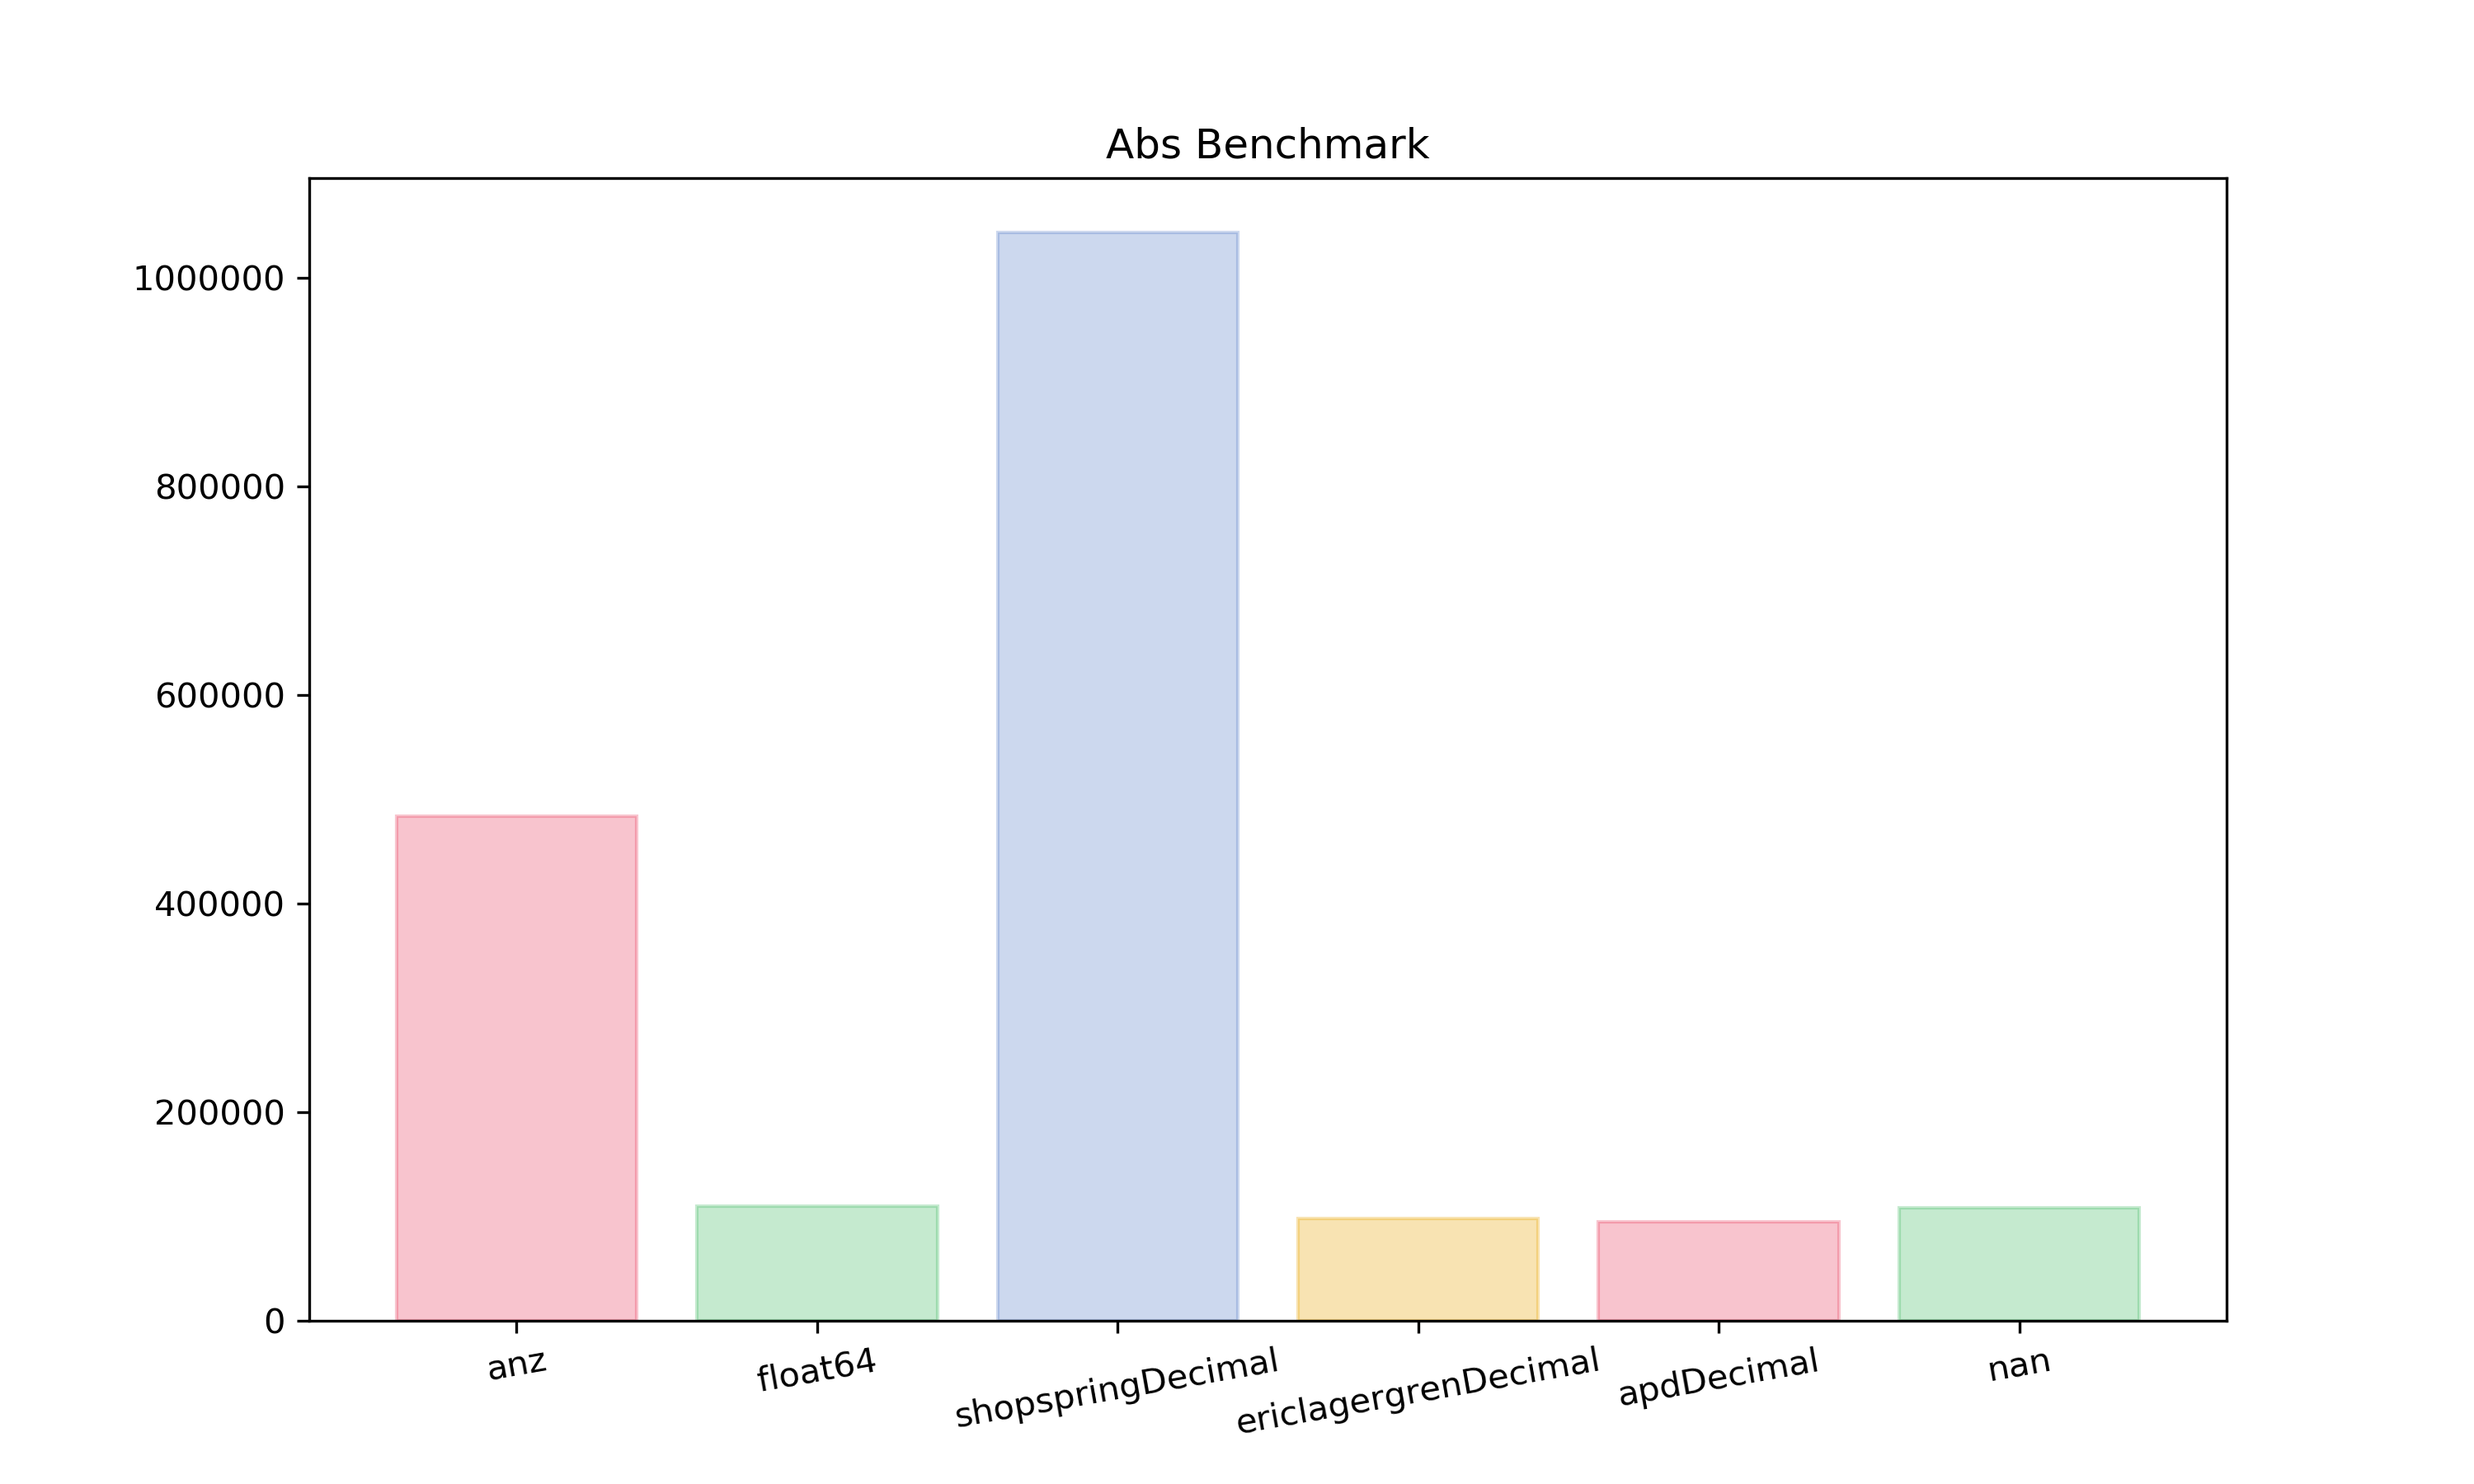
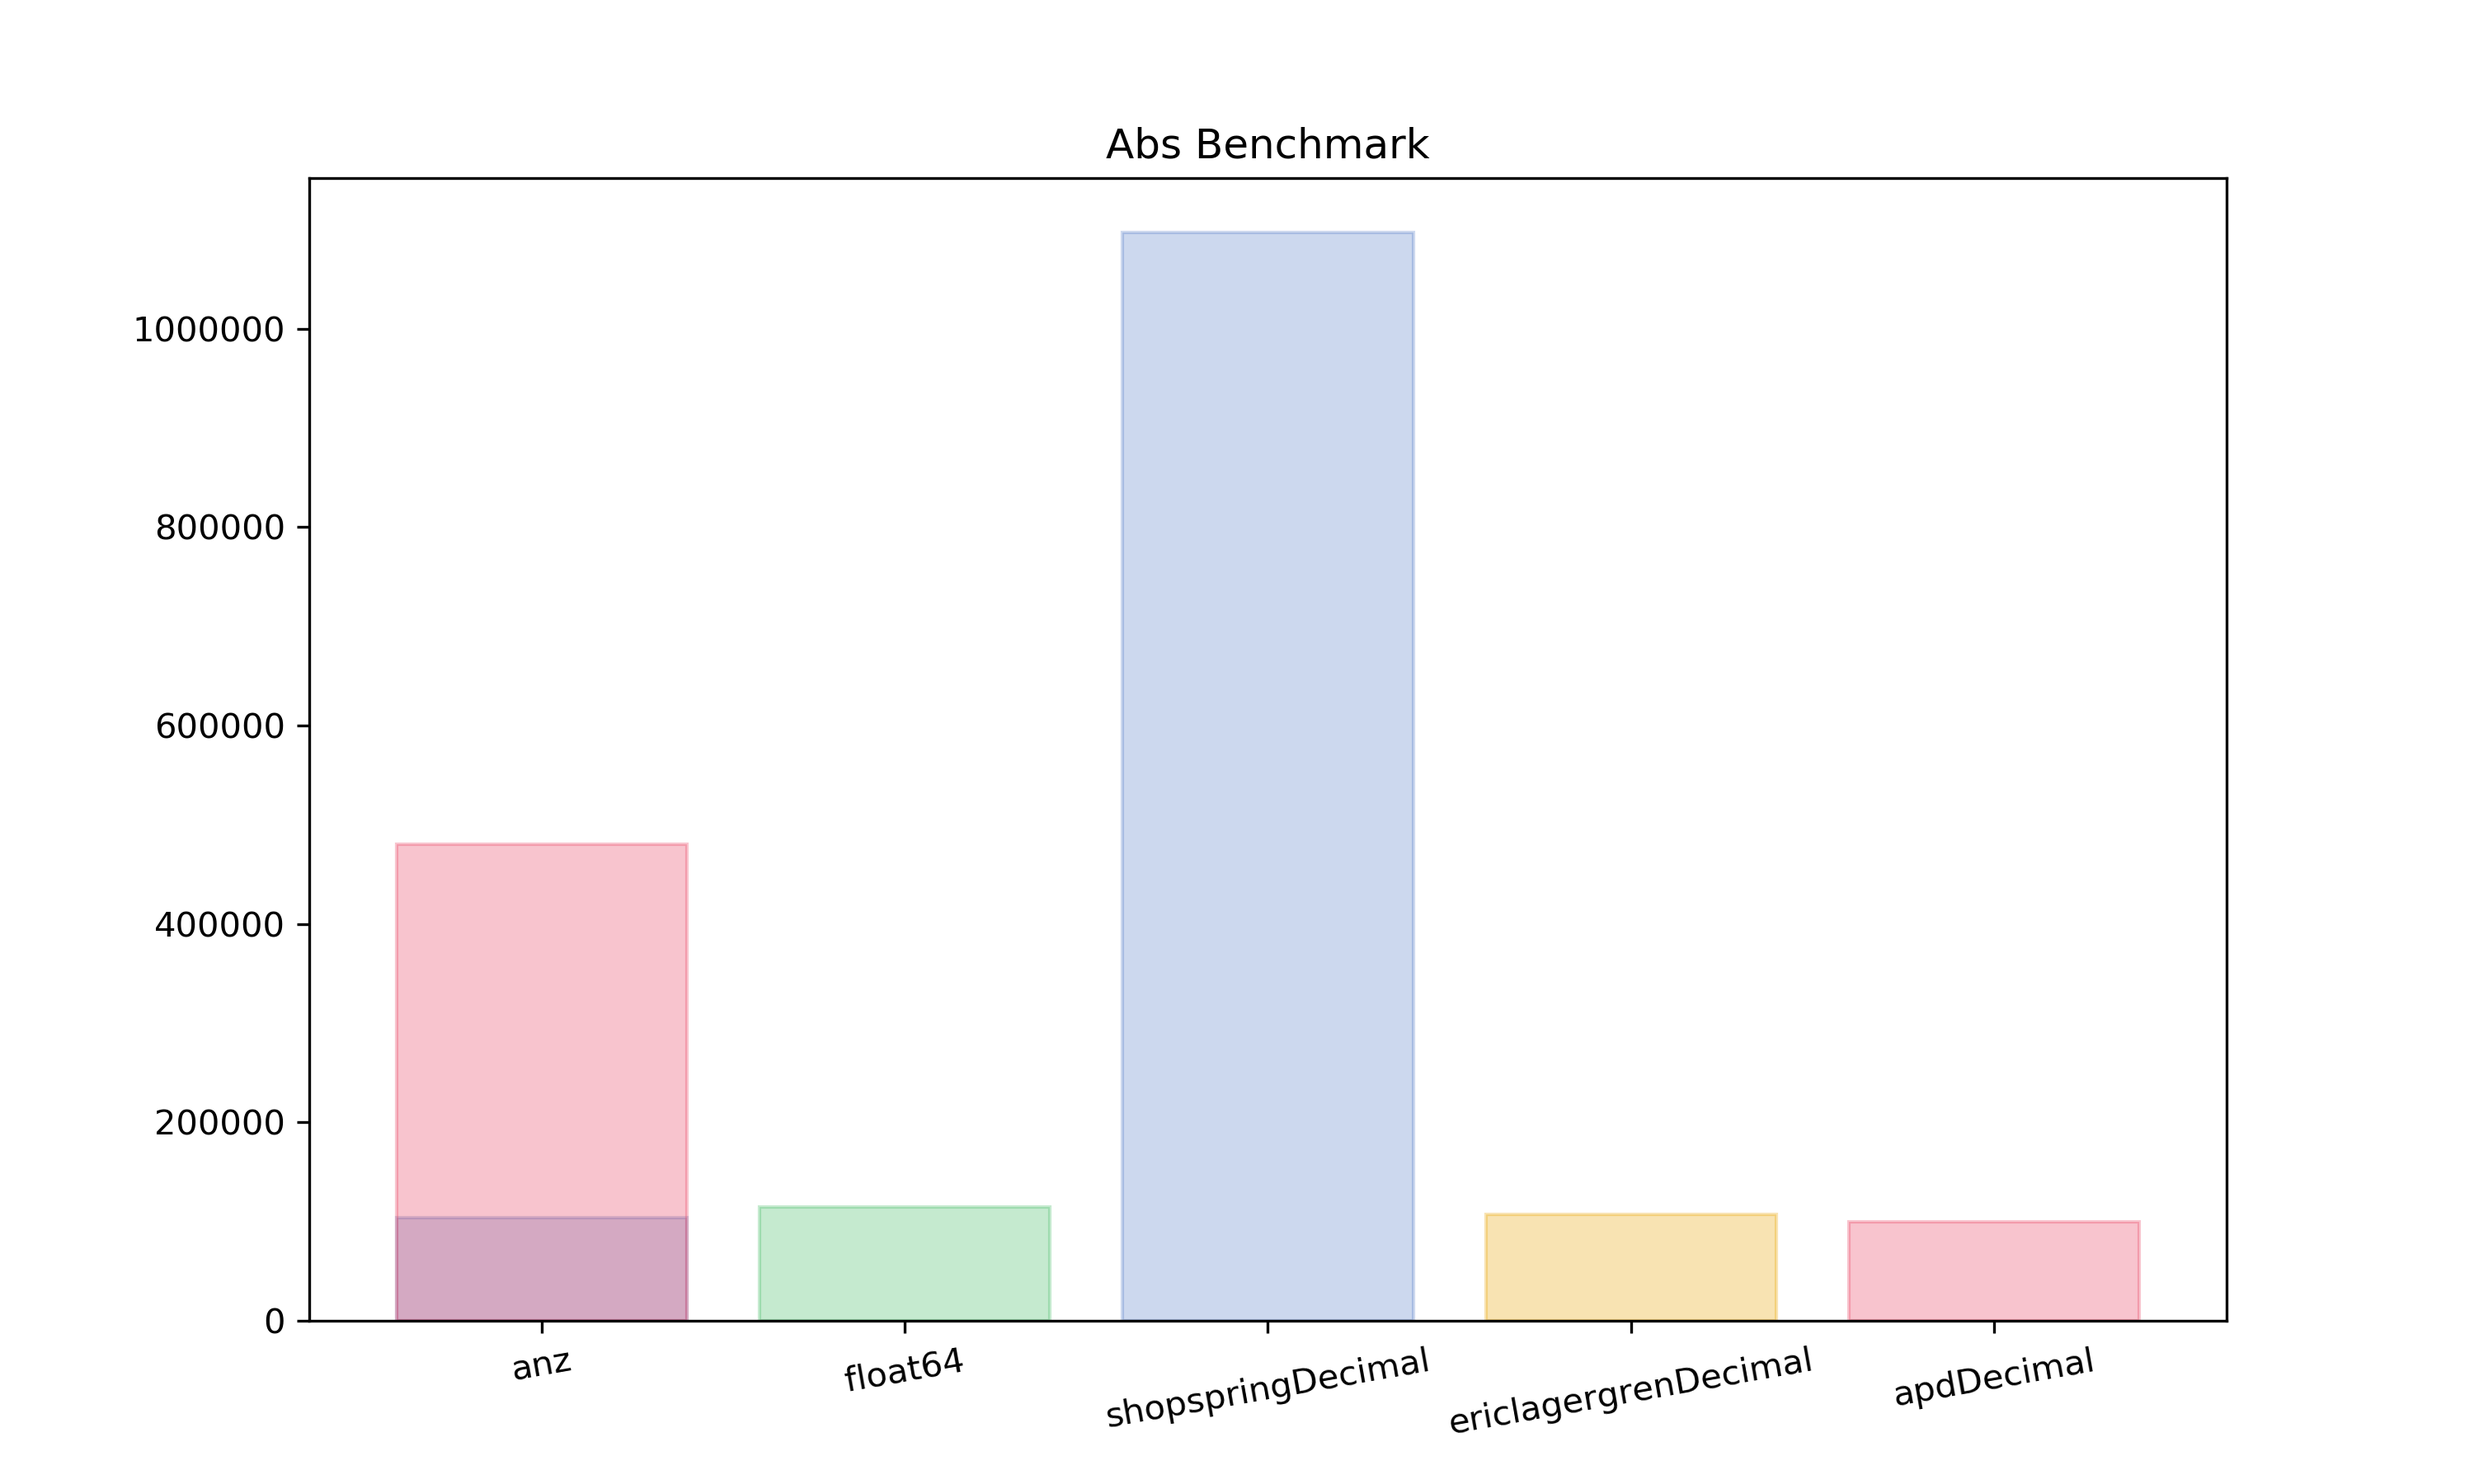
redo graph.py to stack anz graph

diff --git a/examples/benchmark/graph.py b/examples/benchmark/graph.py
@@ -31,13 +31,24 @@ def generate_graph(responsetime_filename):
     operations = data.TestName.unique()
     for operation in operations:
         element = data.loc[data["TestName"] == operation]
-        print(element)
+        duplicates = element.duplicated(subset = 'LibraryName', keep = 'first')
+        dupes = element[duplicates]
+        # [dupes.append(pandas.Series(), ignore_index=True) for i in range(len(element.index)-len(dupes.index))] 
+        element = element[~duplicates]
+        print(dupes)
+        print(len(element[~duplicates].index))
         plt.figure(figsize=(10,6))
         x = np.arange(len(element.index))
+        dupeInd = np.arange(len(dupes.index))
+        bar_lst2 = plt.bar(dupeInd, dupes.time.tolist())
         bar_lst = plt.bar(x, element.time.tolist())
+        
         colors = cycle([(232/255, 62/255, 93/255, 0.3),(65/255, 186/255, 99/255, 0.3),(87/255, 126/255, 199/255, 0.3),(232/255, 165/255, 0, 0.3)])
         for i in range(len(bar_lst)):
             bar_lst[i].set_color(next(colors))
+        for i in range(len(bar_lst2)):
+            next(colors)
+            bar_lst2[i].set_color(next(colors))
         plt.xticks(x, element.LibraryName)
         plt.xticks(rotation=10)
         plt.title(operation + " Benchmark")
